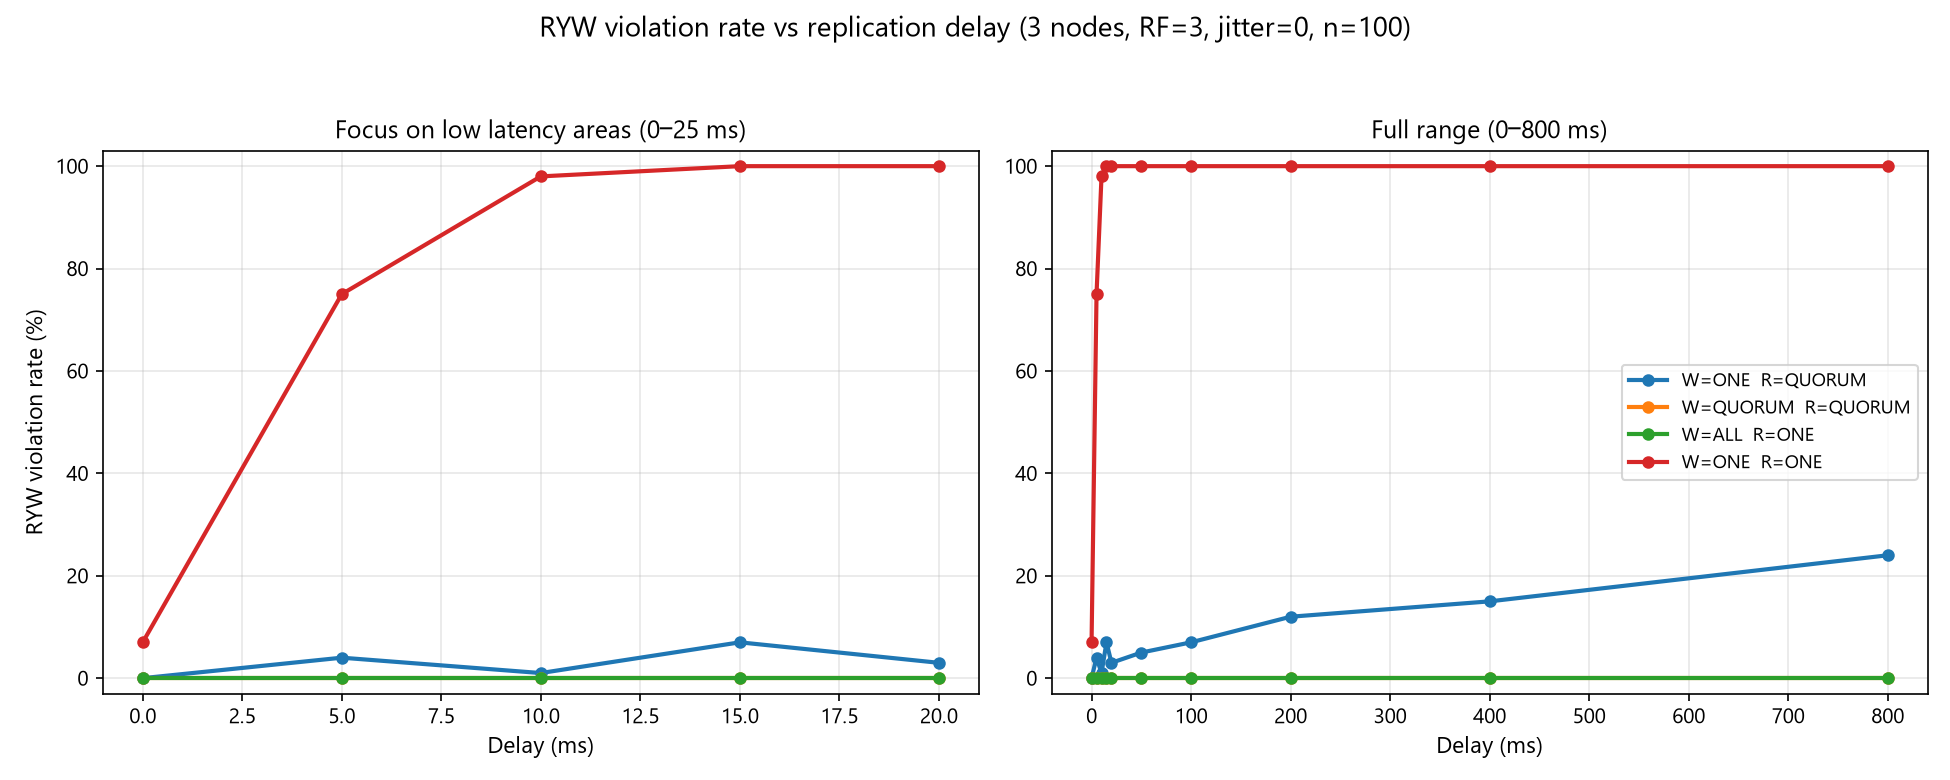
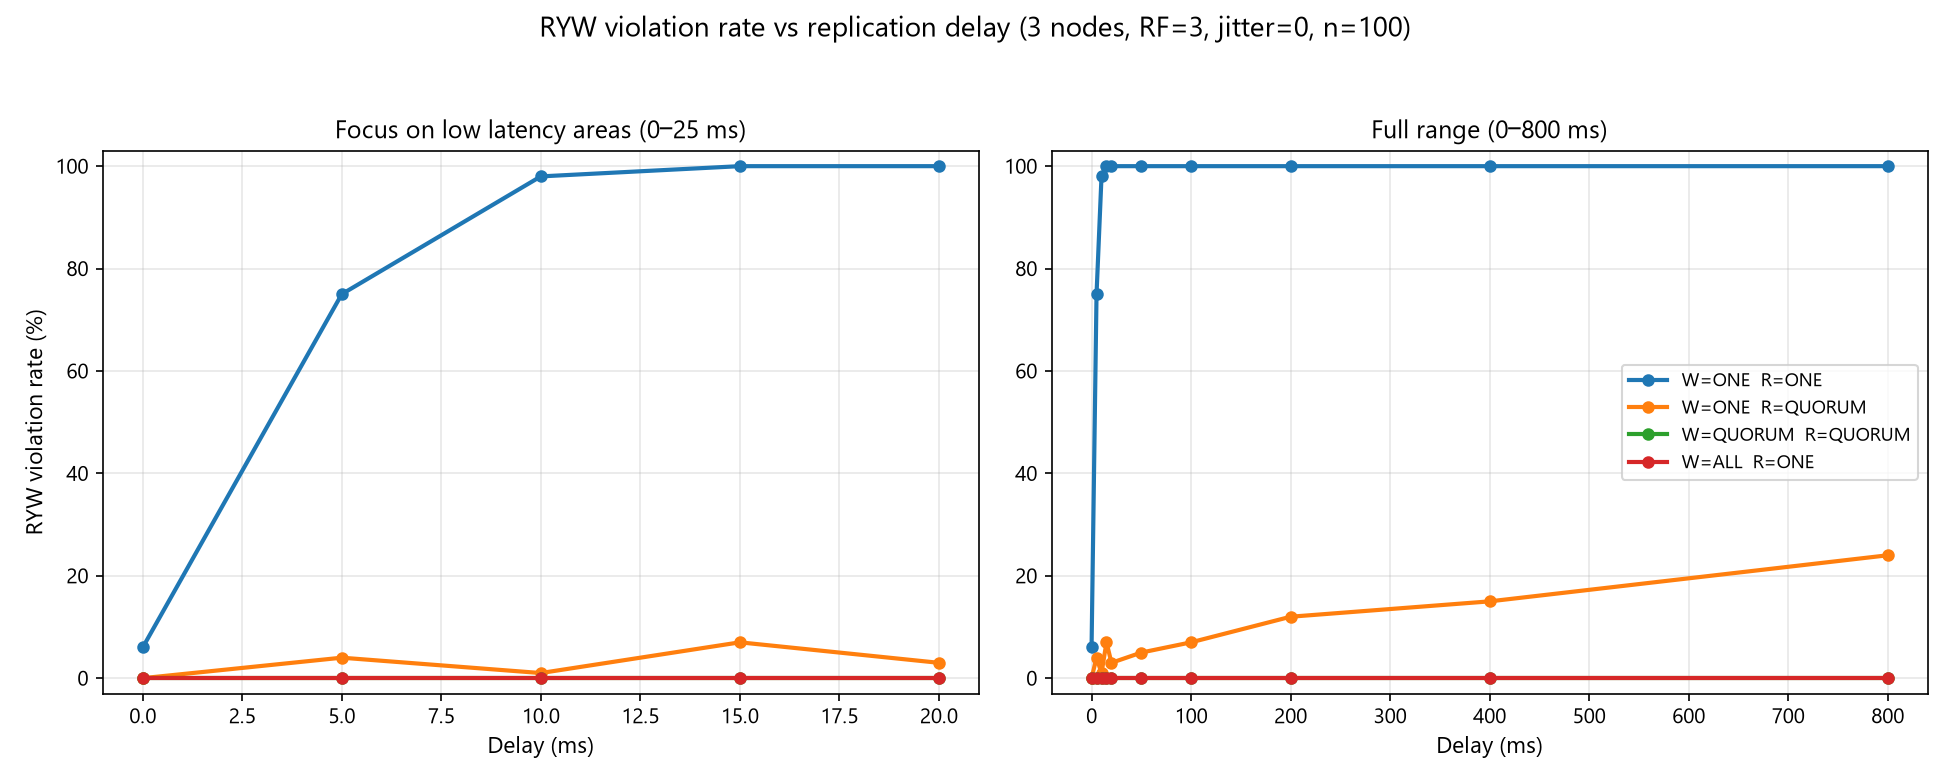
Merge local plot changes with updated main

diff --git a/scripts/plot_sweep.py b/scripts/plot_sweep.py
@@ -54,7 +54,8 @@ for r in rows:
     if int(r.get("errors") or 0) > 0:
         errors_seen[key] = errors_seen.get(key, 0) + int(r["errors"])
 
-# n in the title comes from the last sweep row, matching the last-run-wins rule
+# 与下面的去重逻辑保持一致: 取最后一条扫描行的迭代数。
+# 取第一条会在重跑后显示旧的(更小的)n, 与曲线实际依据的数据不符。
 _sweep_rows = [r for r in rows if is_sweep_row(r)]
 N_ITER = _sweep_rows[-1]["iterations"] if _sweep_rows else "?"
 
